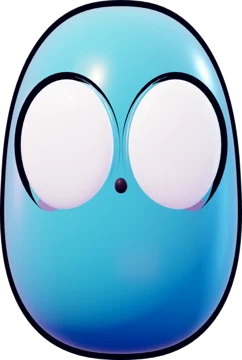
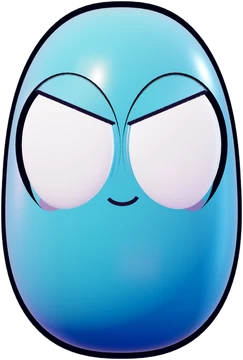
Landing page: four Sharliz personalities (Brave, Sunny, Shy, Cheeky) with their own expressions, used in Meet the Sharliz and the mini demo
Claude-Session: https://claude.ai/code/session_01Le2zjVQBBSU6Hv1CSzSKbq

Changed region(s): [[0.0, 0.0, 1.0, 1.0], [0.4339, 0.4889, 0.5785, 0.5806]]

diff --git a/site/index.html b/site/index.html
@@ -117,13 +117,15 @@ h2{font-size:clamp(32px,5vw,50px);line-height:1.1;text-align:center;margin:0 0 1
 .feat p{margin:4px 0 0;color:var(--soft);font-size:16px;font-weight:600}
 
 .cast{background:linear-gradient(180deg,var(--deep),#3a1574)}
-.chars{display:flex;justify-content:center;gap:clamp(8px,3vw,40px);align-items:flex-end;flex-wrap:wrap}
-.char{text-align:center;cursor:pointer;background:none;border:0;color:inherit;font:inherit;padding:0;width:clamp(76px,15vw,150px)}
+.chars{display:flex;justify-content:center;gap:clamp(16px,3vw,40px);align-items:flex-start;flex-wrap:wrap}
+.char .body{max-width:130px}
+.char{text-align:center;cursor:pointer;background:none;border:0;color:inherit;font:inherit;padding:0;width:clamp(130px,18vw,170px)}
 .char .hat{width:62%;margin:0 auto -14%;position:relative;z-index:2;transition:transform .3s}
 .char .body{width:100%;margin:0 auto;transition:transform .3s cubic-bezier(.2,1.6,.4,1)}
 .char:hover .body,.char:focus-visible .body{transform:translateY(-10px) scale(1.06)}
 .char:hover .hat{transform:translateY(-16px) rotate(-8deg)}
-.char span{display:block;font-family:"Titan One";margin-top:8px;font-size:15px;color:var(--soft)}
+.char span{display:block;font-family:"Titan One";margin-top:10px;font-size:20px;color:var(--yellow)}
+.char em{display:block;font-style:normal;font-size:14px;line-height:1.3;color:var(--soft);margin-top:2px}
 .note{text-align:center;color:var(--soft);margin-top:26px;font-size:16px}
 
 .worlds{background:#3a1574}
@@ -272,12 +274,12 @@ footer nav{display:flex;gap:20px;justify-content:center;flex-wrap:wrap;margin-bo
   <section class="cast">
     <div class="wrap">
       <h2>Meet the Sharliz</h2>
-      <p class="lead">Squishy, wobbly and always up for a climb. Collect them all and dress them up!</p>
+      <p class="lead">Every Sharliz has a personality of its own. Collect them all and dress them up!</p>
       <div class="chars">
-        <button class="char" type="button"><img class="hat" src="img/skin_party.webp" alt=""><img class="body" src="img/sh_orange.webp" alt="Orange Sharliz"><span>Party hat</span></button>
-        <button class="char" type="button"><img class="hat" src="img/skin_pirate.webp" alt=""><img class="body" src="img/sh_pink.webp" alt="Pink Sharliz"><span>Pirate hat</span></button>
-        <button class="char" type="button"><img class="hat" src="img/skin_wizard.webp" alt=""><img class="body" src="img/sh_teal.webp" alt="Teal Sharliz"><span>Wizard hat</span></button>
-        <button class="char" type="button"><img class="hat" src="img/skin_king.webp" alt=""><img class="body" src="img/sh_magenta.webp" alt="Berry Sharliz"><span>King's crown</span></button>
+        <button class="char" type="button"><img class="hat" src="img/skin_party.webp" alt=""><img class="body" src="img/sh_orange.webp" alt="Sunny, the orange Sharliz"><span>Sunny</span><em>Always smiling, even mid-fall</em></button>
+        <button class="char" type="button"><img class="hat" src="img/skin_pirate.webp" alt=""><img class="body" src="img/sh_pink.webp" alt="Shy, the pink Sharliz"><span>Shy</span><em>Quiet, sleepy, secretly the best stacker</em></button>
+        <button class="char" type="button"><img class="hat" src="img/skin_wizard.webp" alt=""><img class="body" src="img/sh_teal.webp" alt="Brave, the teal Sharliz"><span>Brave</span><em>Never gives up. First to the top!</em></button>
+        <button class="char" type="button"><img class="hat" src="img/skin_king.webp" alt=""><img class="body" src="img/sh_magenta.webp" alt="Cheeky, the berry Sharliz"><span>Cheeky</span><em>Loves pranks and silly hats</em></button>
       </div>
       <p class="note">Tap a Sharliz to say hi 👋</p>
     </div>

diff --git a/tools/brand/faces.py b/tools/brand/faces.py
@@ -1,0 +1,107 @@
+import cv2, numpy as np, math
+from PIL import Image, ImageDraw, ImageFilter
+SRC=Image.open('/mnt/project-files/logo-icon/refs/characters.png').convert('RGB')
+W,H=SRC.size; SS=4; INK=(26,14,48)
+
+def eyes_of(c, body):
+    hsv=cv2.cvtColor(c,cv2.COLOR_RGB2HSV)
+    white=((hsv[:,:,1]<50)&(hsv[:,:,2]>185)).astype(np.uint8)*255
+    white&=cv2.erode(body,np.ones((25,25),np.uint8))
+    n,lab,st,cen=cv2.connectedComponentsWithStats(white)
+    big=sorted(range(1,n),key=lambda k:-st[k,cv2.CC_STAT_AREA])[:2]
+    out=[]
+    for k in big:
+        cs,_=cv2.findContours((lab==k).astype(np.uint8),cv2.RETR_EXTERNAL,cv2.CHAIN_APPROX_NONE)
+        (x,y),(MA,ma),ang=cv2.fitEllipse(max(cs,key=len))
+        out.append(dict(cx=x,cy=y,rx=MA/2,ry=ma/2,ang=ang,mask=(lab==k)))
+    return sorted(out,key=lambda e:e['cx'])
+
+def overlay(size):
+    return Image.new('RGBA',(size[0]*SS,size[1]*SS),(0,0,0,0))
+
+def lid(img, blank, e, f, side, line=True, reach=1.18, blur=14):
+    """Cover the part of eye e where f(x,y)>0 (x,y relative to eye center, normalised by radii) with body texture, then ink the edge."""
+    h,w=e['mask'].shape
+    yy,xx=np.mgrid[0:h,0:w]
+    nx=(xx-e['cx'])/e['rx']; ny=(yy-e['cy'])/e['ry']
+    inside=(nx**2+ny**2)<=reach
+    cover=inside & (f(nx,ny)>0)
+    # soft edge
+    m=Image.fromarray((cover*255).astype(np.uint8)).filter(ImageFilter.GaussianBlur(1.2))
+    img.paste(blank.filter(ImageFilter.GaussianBlur(blur)), (0,0), m)
+    if line:
+        ov=overlay((w,h)); d=ImageDraw.Draw(ov)
+        pts=[]
+        for t in np.linspace(-1.05,1.05,160):
+            # find boundary y for this x by scanning
+            col=[ny_ for ny_ in np.linspace(-1.1,1.1,400) if (t**2+ny_**2)<=1.12 and abs(f(t,ny_))<0.02]
+            if col: pts.append(((e['cx']+t*e['rx'])*SS,(e['cy']+np.mean(col)*e['ry'])*SS))
+        if len(pts)>2: d.line(pts,fill=INK,width=int(7*SS),joint='curve')
+        img.alpha_composite(ov.resize((w,h),Image.LANCZOS))
+
+def ink(img, draw_fn):
+    ov=overlay(img.size); d=ImageDraw.Draw(ov); draw_fn(d, SS)
+    img.alpha_composite(ov.resize(img.size,Image.LANCZOS))
+
+def patch_mouth(img, blank, mx, my, r):
+    h,w=img.size[1],img.size[0]
+    m=Image.new('L',(w,h),0); ImageDraw.Draw(m).ellipse((mx-r,my-r,mx+r,my+r),fill=255)
+    img.paste(blank,(0,0),m.filter(ImageFilter.GaussianBlur(2)))
+
+def blush(img, x, y, rx, ry, col=(255,90,140), a=110):
+    ov=Image.new('RGBA',img.size,(0,0,0,0)); ImageDraw.Draw(ov).ellipse((x-rx,y-ry,x+rx,y+ry),fill=col+(a,))
+    img.alpha_composite(ov.filter(ImageFilter.GaussianBlur(rx*.45)))
+
+names=['pink','orange','teal','magenta']
+for i,name in enumerate(names):
+    c=np.array(SRC.crop((i*W//4,0,(i+1)*W//4,H)))
+    body=np.load(f'body_{name}.npy')
+    E=eyes_of(c,body); L,R=E
+    blank=Image.open(f'blank_{name}.png').convert('RGBA')
+    soft=blank.filter(ImageFilter.GaussianBlur(18))
+    img=Image.fromarray(c).convert('RGBA')
+    mx=(L['cx']+R['cx'])/2
+    hsv=cv2.cvtColor(c,cv2.COLOR_RGB2HSV); dk=(hsv[:,:,2]<80)
+    x0,x1=int(L['cx']+L['rx']*.6),int(R['cx']-R['rx']*.6); y0,y1=int(L['cy']-L['ry']*.1),int(L['cy']+L['ry']*1.1)
+    ys,xs=np.nonzero(dk[y0:y1,x0:x1]); omx,omy=x0+xs.mean(),y0+ys.mean()
+    patch_mouth(img,soft,omx,omy,max(14,(ys.max()-ys.min())*0.9))
+    my=omy+30
+    S=lambda v:v*SS
+    if name=='teal':      # BRAVE: determined lids slanting down to the middle + confident grin
+        lid(img,blank,L,lambda x,y: -(y+0.62-0.30*x),1)
+        lid(img,blank,R,lambda x,y: -(y+0.62+0.30*x),1)
+        ink(img,lambda d,s: d.arc((S(mx-30),S(my-40),S(mx+34),S(my+6)),20,150,fill=INK,width=int(7*s)))
+    if name=='orange':    # SUNNY: happy squinting eyes (cheeks push up) + big open smile + blush
+        lid(img,blank,L,lambda x,y: (y-(0.6-0.62*(1-x*x))),1)
+        lid(img,blank,R,lambda x,y: (y-(0.6-0.62*(1-x*x))),1)
+        def sm(d,s):
+            box=(S(mx-42),S(my-46),S(mx+42),S(my+22))
+            d.chord(box,0,180,fill=(70,20,40,255),outline=INK,width=int(6*s))
+            d.chord((S(mx-22),S(my-6),S(mx+22),S(my+18)),180,360,fill=(255,120,150,255))
+        ink(img,sm)
+        blush(img,L['cx']-L['rx']*.35,L['cy']+L['ry']*1.05,40,22)
+        blush(img,R['cx']+R['rx']*.35,R['cy']+R['ry']*1.05,40,22)
+    if name=='pink':      # SHY: sleepy half-closed lids, looking down, tiny wobbly smile, strong blush
+        lid(img,blank,L,lambda x,y: -(y+0.12-0.12*x*x),1)
+        lid(img,blank,R,lambda x,y: -(y+0.12-0.12*x*x),1)
+        def wv(d,s):
+            pts=[(S(mx-18+t*36),S(my-14+3.5*math.sin(t*math.pi*2))) for t in np.linspace(0,1,40)]
+            d.line(pts,fill=INK,width=int(5*s),joint='curve')
+        ink(img,wv)
+        blush(img,L['cx']-L['rx']*.2,L['cy']+L['ry']*1.0,50,26,a=150)
+        blush(img,R['cx']+R['rx']*.2,R['cy']+R['ry']*1.0,50,26,a=150)
+    if name=='magenta':   # CHEEKY: wink + smirk with tongue out
+        h_,w_=c.shape[:2]; yy,xx=np.mgrid[0:h_,0:w_]
+        reg=((((xx-L['cx'])/L['rx'])**2+((yy-L['cy'])/L['ry'])**2)<=1.6).astype(np.uint8)*255
+        cur=np.array(img.convert('RGB')); fill=cv2.inpaint(cur,reg,25,cv2.INPAINT_TELEA)
+        fill=Image.fromarray(fill).filter(ImageFilter.GaussianBlur(10)).convert('RGBA')
+        img.paste(fill,(0,0),Image.fromarray(reg).filter(ImageFilter.GaussianBlur(3)))   # fully closed left eye
+        ink(img,lambda d,s: d.arc((S(L['cx']-L['rx']*.85),S(L['cy']-L['ry']*.25),S(L['cx']+L['rx']*.85),S(L['cy']+L['ry']*.75)),190,350,fill=INK,width=int(10*s)))
+        def sk(d,s):
+            d.arc((S(mx-34),S(my-44),S(mx+30),S(my)),25,155,fill=INK,width=int(7*s))
+            d.chord((S(mx-2),S(my-12),S(mx+24),S(my+20)),0,180,fill=(255,110,150,255),outline=INK,width=int(4*s))
+        ink(img,sk)
+    # crop + transparent bg
+    pil=img.copy(); a=Image.fromarray(body).filter(ImageFilter.GaussianBlur(.8)); pil.putalpha(a)
+    pil=pil.crop(pil.getbbox()); pil.save(f'face_{name}.png')
+    print(name,[ (round(e['cx']),round(e['cy']),round(e['rx']),round(e['ry']),round(e['ang'])) for e in E])

diff --git a/tools/brand/blank.py b/tools/brand/blank.py
@@ -1,0 +1,29 @@
+import cv2, numpy as np
+from PIL import Image, ImageDraw
+im=Image.open('/mnt/project-files/logo-icon/refs/characters.png').convert('RGB')
+W,H=im.size
+for i,name in enumerate(['pink','orange','teal','magenta']):
+    c=np.array(im.crop((i*W//4,0,(i+1)*W//4,H)))
+    hsv=cv2.cvtColor(c,cv2.COLOR_RGB2HSV)
+    # body silhouette: not white background (flood from corners)
+    pil=Image.fromarray(c); bg=pil.copy(); ImageDraw.floodfill(bg,(2,2),(255,0,255),thresh=40); ImageDraw.floodfill(bg,(bg.width-3,bg.height-3),(255,0,255),thresh=40)
+    b=np.array(bg); body=~((b[:,:,0]==255)&(b[:,:,1]==0)&(b[:,:,2]==255))
+    body=body.astype(np.uint8)*255
+    inner=cv2.erode(body,np.ones((25,25),np.uint8))
+    white=((hsv[:,:,1]<60)&(hsv[:,:,2]>170)).astype(np.uint8)*255
+    dark=(hsv[:,:,2]<90).astype(np.uint8)*255
+    # face region only: upper-middle band
+    ys,xs=np.nonzero(body); y0,y1=ys.min(),ys.max()
+    band=np.zeros_like(body); band[int(y0+(y1-y0)*.15):int(y0+(y1-y0)*.62),:]=255
+    m=((white|dark)&inner&band)
+    # keep only big white blobs (eyes) + dark near them: just dilate
+    m=cv2.dilate(m,np.ones((9,9),np.uint8))
+    # gloss highlights are white too: drop small components
+    n,lab,st,_=cv2.connectedComponentsWithStats(m)
+    keep=np.zeros_like(m)
+    for k in range(1,n):
+        if st[k,cv2.CC_STAT_AREA]>800: keep[lab==k]=255
+    out=cv2.inpaint(c,keep,15,cv2.INPAINT_TELEA)
+    Image.fromarray(out).save(f'blank_{name}.png'); Image.fromarray(keep).save(f'mask_{name}.png')
+    np.save(f'body_{name}.npy',body)
+    print(name, c.shape)
